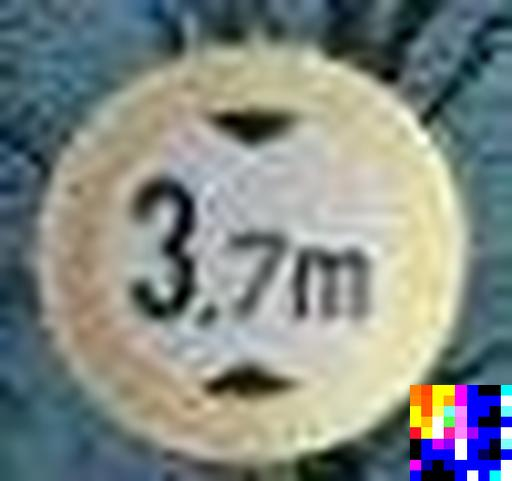
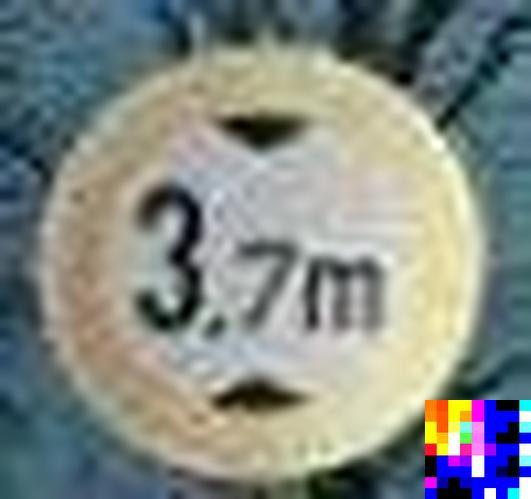
simple import

Changed region(s): [[0.8125, 0.7796, 1.0, 1.0], [0.7812, 0.9667, 0.8125, 1.0], [0.7812, 0.842, 0.8125, 0.9044]]

diff --git a/examples/trigger/trigger-example.py b/examples/trigger/trigger-example.py
@@ -7,7 +7,7 @@ from pathlib import Path
 
 from PIL import Image
 
-from printer.printer import Printer
+from printer.printer import ImageProcessor
 from trigger import Trigger
 from trigger.config import TriggerConfig
 
@@ -17,8 +17,8 @@ EXAMPLE_DIR = Path(__file__).parent
 def main():
     test_image_raw = Image.open(EXAMPLE_DIR / "test-image.jpg")
 
-    with Printer() as p:
-        test_image = p.image_processor.upscale_image_to_max_width(test_image_raw)
+    imageProcessor = ImageProcessor()
+    test_image = imageProcessor.upscale_image_to_max_width(test_image_raw)
 
     injector = Trigger(TriggerConfig())
 